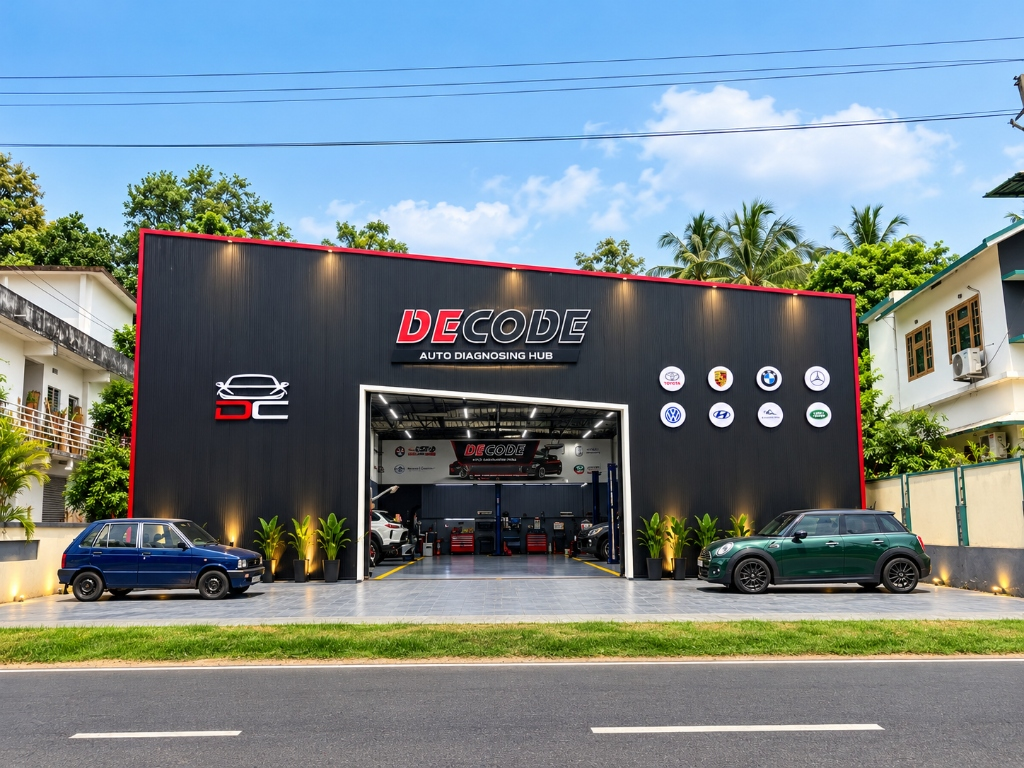
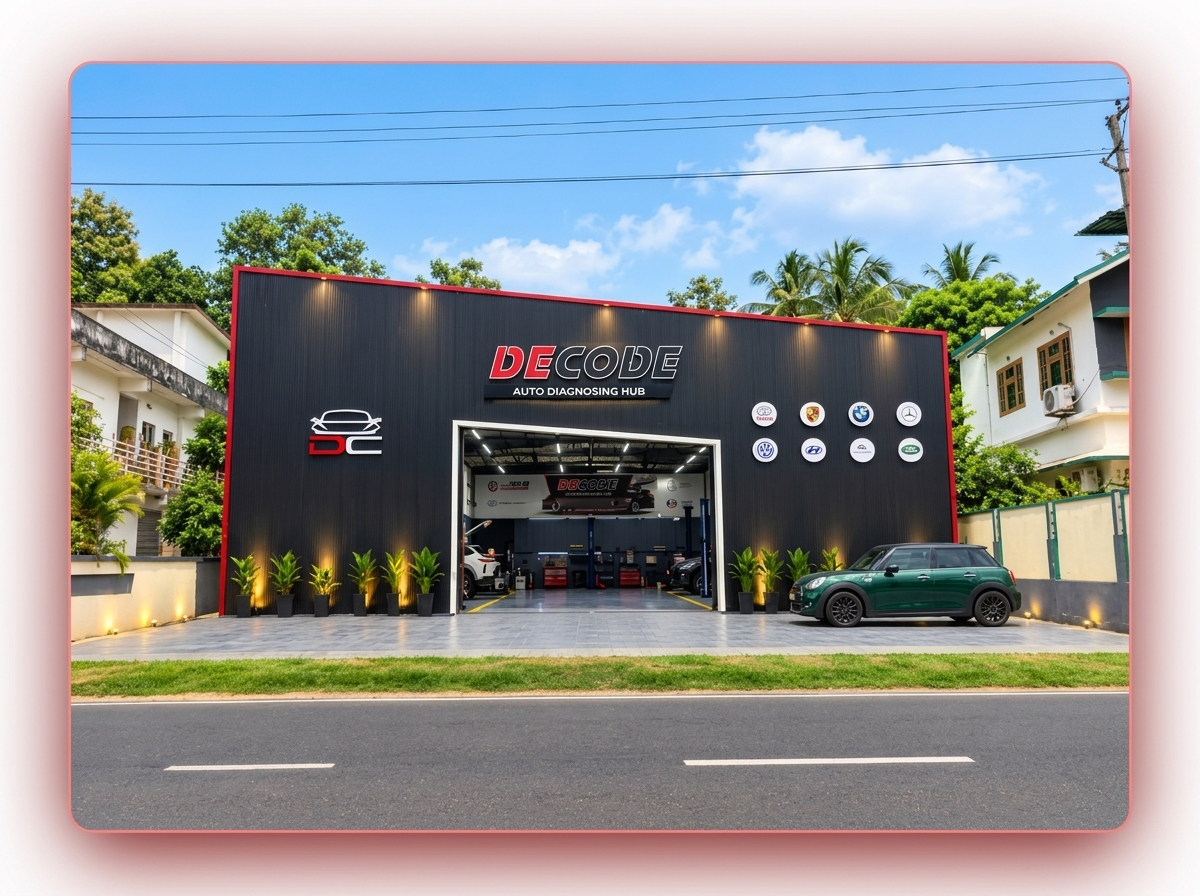
Remove blue Zen car from workshop images and wire mobile navbar Check Car button to open search modal

diff --git a/server/server.js b/server/server.js
@@ -1,6 +1,8 @@
 import express from 'express';
 import cors from 'cors';
 import dotenv from 'dotenv';
+import path from 'path';
+import { fileURLToPath } from 'url';
 import mongoose from 'mongoose';
 import { MongoMemoryServer } from 'mongodb-memory-server';
 
@@ -11,7 +13,10 @@ import serviceRoutes from './routes/services.js';
 import userRoutes from './routes/users.js';
 import { seedDatabase } from './seed.js';
 
-dotenv.config();
+const __filename = fileURLToPath(import.meta.url);
+const __dirname = path.dirname(__filename);
+dotenv.config({ path: path.join(__dirname, '.env') });
+dotenv.config(); // fallback to cwd
 
 const app = express();
 const PORT = process.env.PORT || 5000;
@@ -49,15 +54,20 @@ const apiHealthHandler = (req, res) => {
     status: 'ok',
     timestamp: new Date(),
     service: 'DECODE Car Service Center Management API',
+    dbConnected: mongoose.connection.readyState === 1,
+    dbState: ['disconnected', 'connected', 'connecting', 'disconnecting'][mongoose.connection.readyState] || 'unknown',
   });
 };
 
 app.get('/api/health', apiHealthHandler);
 app.get('/decode_car/api/health', apiHealthHandler);
 
+const DEFAULT_MONGODB_URI =
+  'mongodb+srv://decodetech37_db_user:zw2LqSLKH0pjiBxi@cluster0.uzddyrb.mongodb.net/decode_car_db?retryWrites=true&w=majority';
+
 // Database Connection with graceful fallback to MongoMemoryServer
 async function connectDB() {
-  const mongoUri = process.env.MONGODB_URI || 'mongodb://127.0.0.1:27017/decode_car_db';
+  const mongoUri = process.env.MONGODB_URI || DEFAULT_MONGODB_URI;
   try {
     await mongoose.connect(mongoUri, {
       dbName: 'decode_car_db',

diff --git a/app/page.js b/app/page.js
@@ -413,13 +413,16 @@ export default function HomePage() {
 
           {/* Mobile Right Bar: Hamburger Toggle */}
           <div className="mobile-header-actions">
-            <a
-              href="#location"
-              onClick={() => setMobileMenuOpen(false)}
+            <button
+              type="button"
+              onClick={() => {
+                setMobileMenuOpen(false);
+                setCheckCarOpen(true);
+              }}
               className="nav-link-cta"
             >
               Check Car
-            </a>
+            </button>
             <button
               className="mobile-menu-toggle"
               onClick={() => setMobileMenuOpen(!mobileMenuOpen)}

diff --git a/server/routes/auth.js b/server/routes/auth.js
@@ -45,7 +45,7 @@ router.post('/login', async (req, res) => {
     });
   } catch (error) {
     console.error('Login error:', error);
-    res.status(500).json({ message: 'Server error during login' });
+    res.status(500).json({ message: 'Server error during login', error: error.message });
   }
 });
 
